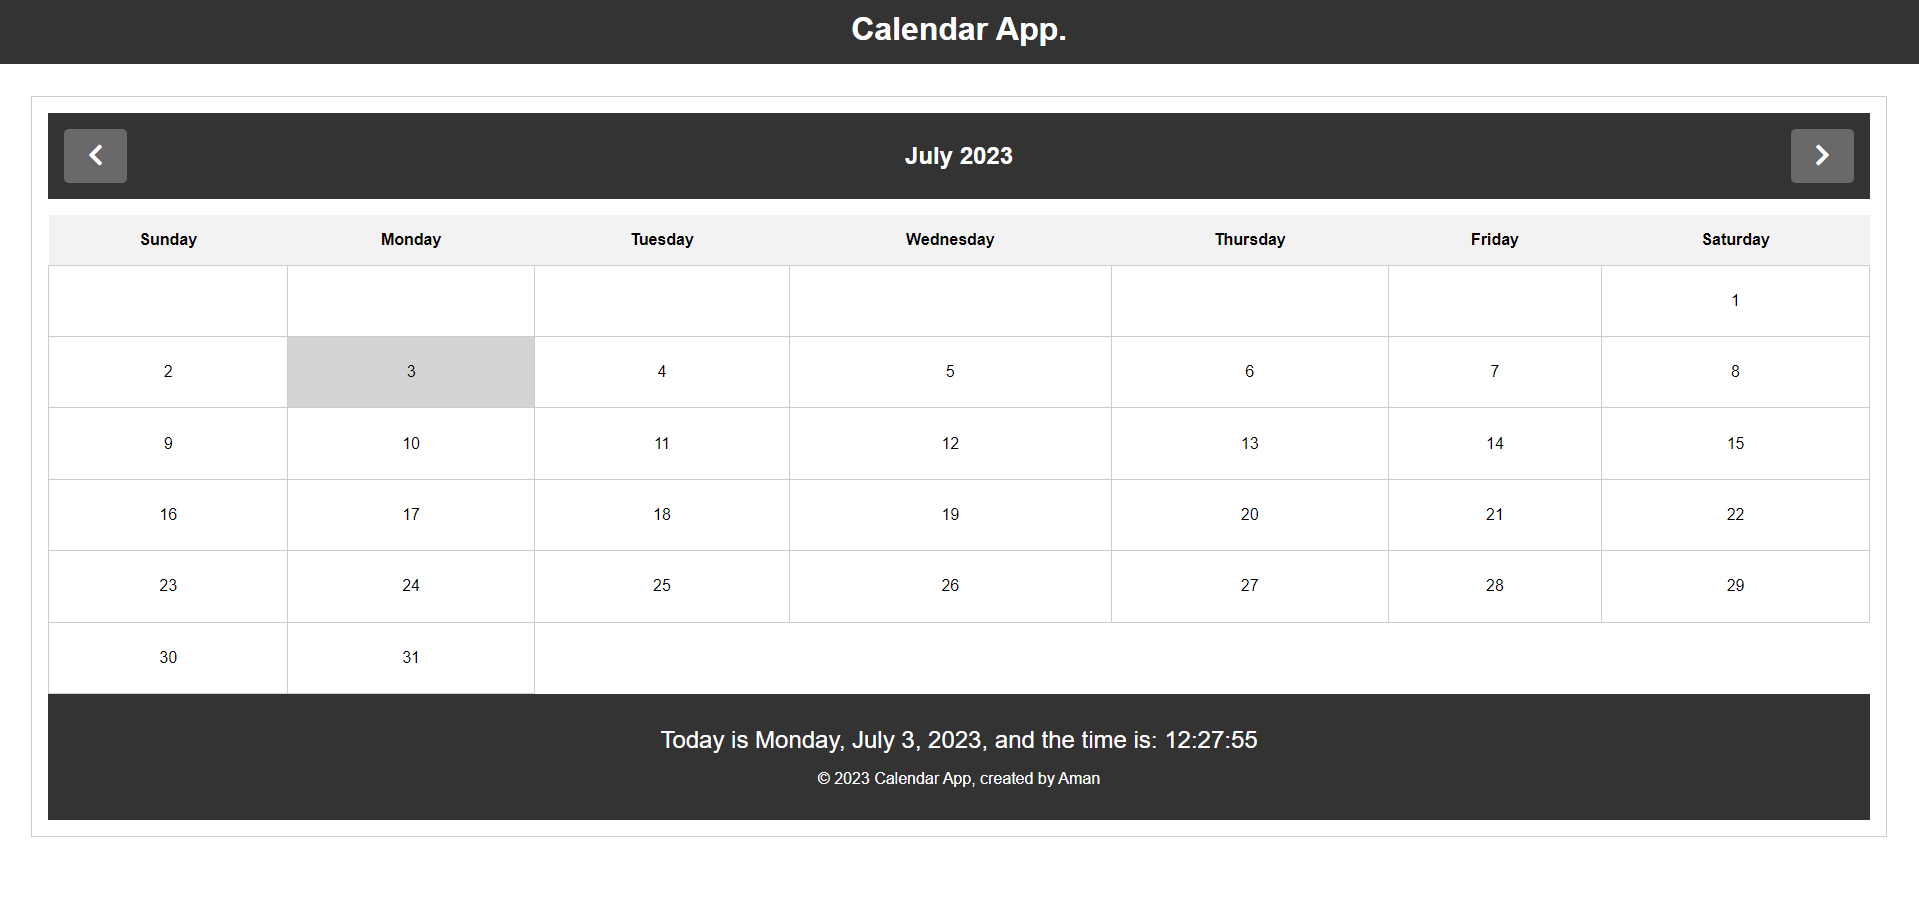
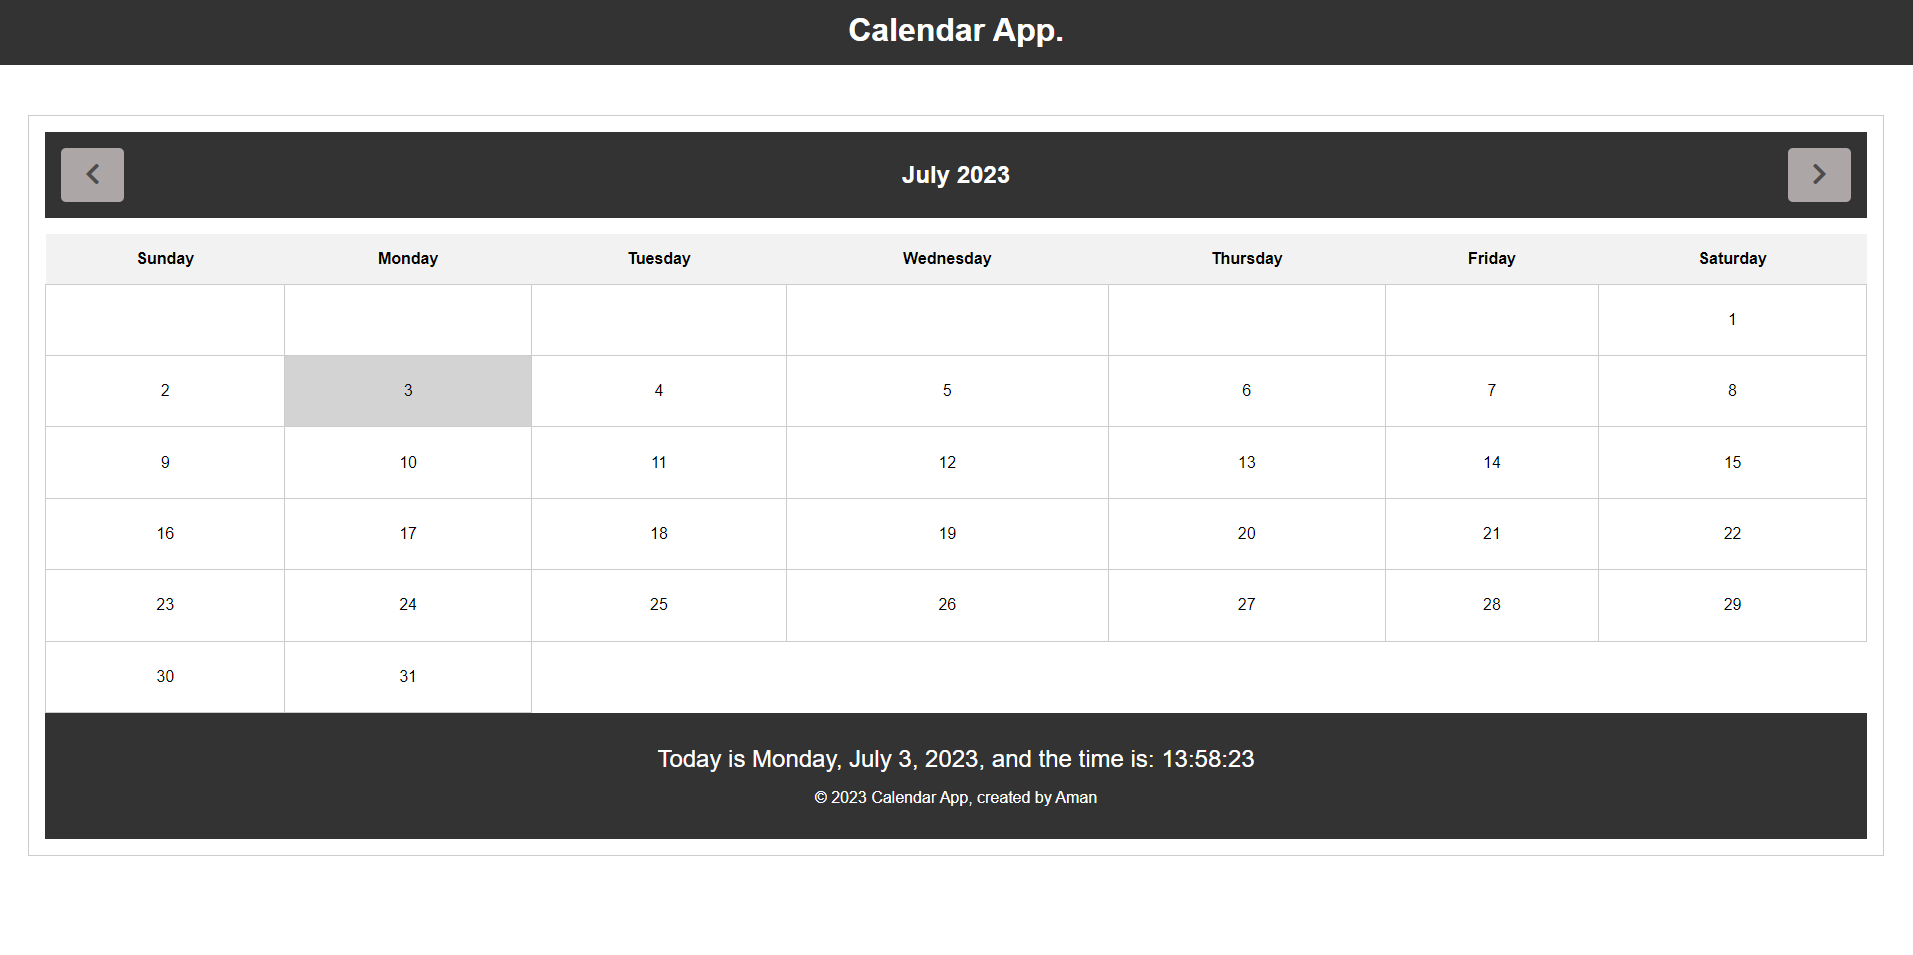
Added calender

diff --git a/index.html b/index.html
@@ -4,7 +4,7 @@
   <meta charset="UTF-8">
   <meta name="viewport" content="width=device-width, initial-scale=1.0">
   <title>Calendar</title>
-  <link rel="stylesheet" href="style.css"> <!-- External CSS file -->
+  <link rel="stylesheet" href="./style.css"> <!-- External CSS file -->
   <!-- Add the Google Fonts link to the head section for a nicer font -->
 <link href="https://fonts.googleapis.com/css2?family=Roboto:wght@400;700&display=swap" rel="stylesheet">
     <!--Font Awesome-->
@@ -24,7 +24,8 @@ Date: 2023-07-03
     <header>
         <h1>Calendar App.</h1> <!-- Header with the title -->
     </header>
-      
+    <br>
+
     <main>
         <section>
             <article class="calendar">
@@ -59,6 +60,6 @@ Date: 2023-07-03
         </section>
     </main>
 
-  <script src="script.js"></script> <!-- External JavaScript file -->
+  <script src="./script.js"></script> <!-- External JavaScript file -->
 </body>
 </html>

diff --git a/style.css b/style.css
@@ -54,12 +54,17 @@ main {
 
 /* Styling for the buttons within the calendar header */
 .calendar header button {
-    background-color: #696969;
-    color: #fff;
+    background-color: #aca6a6;
+    color: #4d4b4b;
     border: none;
     padding: 0.8rem 1.5rem;
     cursor: pointer;
 }
+.calendar header button:hover{
+    background-color: #c5c5c5;
+    color: #000;
+    padding: 0.84rem 1.55rem;
+} 
 
 /* Styling for the table within the calendar section */
 .calendar table {
@@ -195,4 +200,7 @@ footer {
 .current-day {
     background-color: lightgray;
   }
+  
+
+
   
